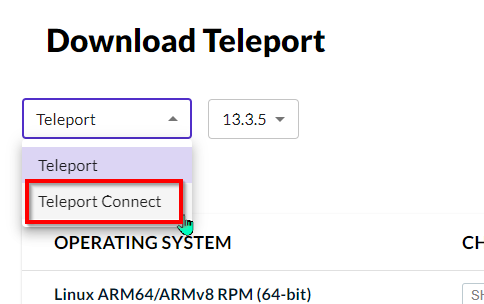
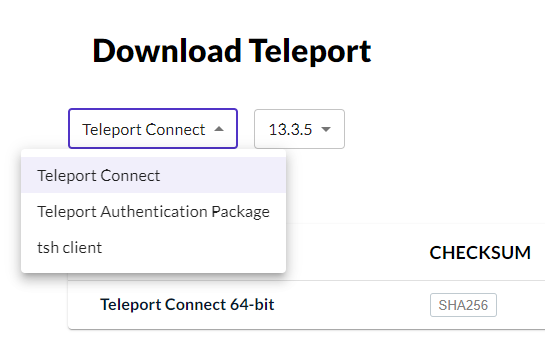
feat: adding more content 🚀

diff --git a/docs/access/teleport/passwordless-login.md b/docs/access/teleport/passwordless-login.md
@@ -1,0 +1,49 @@
+# Passwordless Login
+
+Passwordless login is a way to sign in to Teleport without a password or a username.
+This requires special hardware like a security key or a fingerprint reader.
+
+## Prerequisites
+
+- Windows or Mac Device that supports WebAuthn
+
+For passwordless login you can use Windows Hello or Touch ID on Mac.
+It is also possible to use a security key like Yubikey.
+
+## Register passwordless login
+
+To register a passwordless login, you need to sign in to the Web Interface.
+
+After that, go to the `Account Settings` page and choose `Two-Factor Devices`.
+
+Add a new device and set Allow Passwordless Login to `Yes`.
+![Passwordless Login](../../assets/images/teleport_passwordless_register.png)
+
+??? warning "Using Touch-ID for passwordless sign-in"
+    Touch ID registrations are isolated by application. A Touch ID registration for tsh client is different from a registration made from Chrome or Safari. You may register the same Touch ID device from multiple applications to get passwordless access in all of them.
+
+    A signed and notarized version of tsh is required for Touch ID. See [Installing Teleport Connect Client](/access/teleport/client-installation/) for instructions.
+
+    To register passwordless sign-in for tsh client you need to be logged in and run the following command:
+
+    ```bash
+    tsh mfa add
+    # Choose device type [TOTP, WEBAUTHN, TOUCHID]: WEBAUTHN
+    # Enter device name: laptop-1
+    # Allow passwordless logins [YES, NO]: YES
+    # Tap any *registered* security key
+    # Tap your *new* security key
+    # MFA device "bio" added.
+    ```
+
+## Sign in with passwordless login
+
+For login with passwordless login in the Web Interface, you need to click on the `Other sign-in options` button and select `passwordless login`.
+
+![Passwordless Login](../../assets/images/teleport_passwordless_login.png)
+
+For logging in with passwordless login in the Teleport TSH Client, you need to use the `--auth=passwordless` flag.
+
+```bash
+tsh login --proxy=teleport.demo.test --auth=passwordless
+```

diff --git a/docs/access/teleport/first-login.md b/docs/access/teleport/first-login.md
@@ -10,9 +10,17 @@ This URL can be used to sign in to the Web Interface or with a Teleport Client A
 
 Based on the authentication method you will need to sign in with your GitHub, Google, or local account.
 
-### Local account
-You will receive a setup link to create a local account.
-There you will be asked to set a password for your account and register a second factor.
-
 ### GitHub or Google account
 You will be redirected to the GitHub or Google login page.
+
+### Local account
+You will receive a setup link to create a local account. Configure a secure password.
+![First Link Image](../../assets/images/teleport_first_link.png)
+
+After that, you will be asked to set up a second factor.
+You can choose between a TOTP application or a hardware key.
+
+!!! tip "Using a built-in hardware key"
+    If your device supports WebAuthn, you can use the built-in hardware key like Windows Hello or Touch ID on Mac.
+
+![First Link Image](../../assets/images/teleport_second_factor.png)

diff --git a/docs/access/teleport/client-installation.md b/docs/access/teleport/client-installation.md
@@ -7,7 +7,7 @@ Teleport Connect is a desktop application that allows you to connect to a Telepo
 
 [Download Teleport Connect :fontawesome-solid-download:](https://goteleport.com/download/#install-links){ .md-button }
 
-!!! info "Make sure to select Teleport Connect from the dropdown menu"
+!!! info "Make sure to select `Teleport Connect` from the dropdown menu"
     
 
 <figure markdown>
@@ -24,3 +24,10 @@ It includes the following commands:
   - `tsh ssh` - connect to a node or a cluster
   - `tsh db` - connect to a database
   - `tsh status` - show the status of the Teleport cluster
+
+!!! info "Make sure to select `tsh client` from the dropdown menu"
+
+<figure markdown>
+  ![Teleport](../../assets/images/teleport_tsh_download.png)
+</figure>
+

diff --git a/docs/access/teleport/db-pgadmin.md b/docs/access/teleport/db-pgadmin.md
@@ -33,3 +33,7 @@ Launch pgAdmin and register a new server.
 
 ![Teleport Connect Database](../../assets/images/teleport_connect_pgadmin.png)
 
+Once you connect to the server, you will see a password prompt.
+Just press `OK` to connect and do not enter a password.
+
+![Alt text](../../assets/images/teleport_connect_pgadmin2.png)
